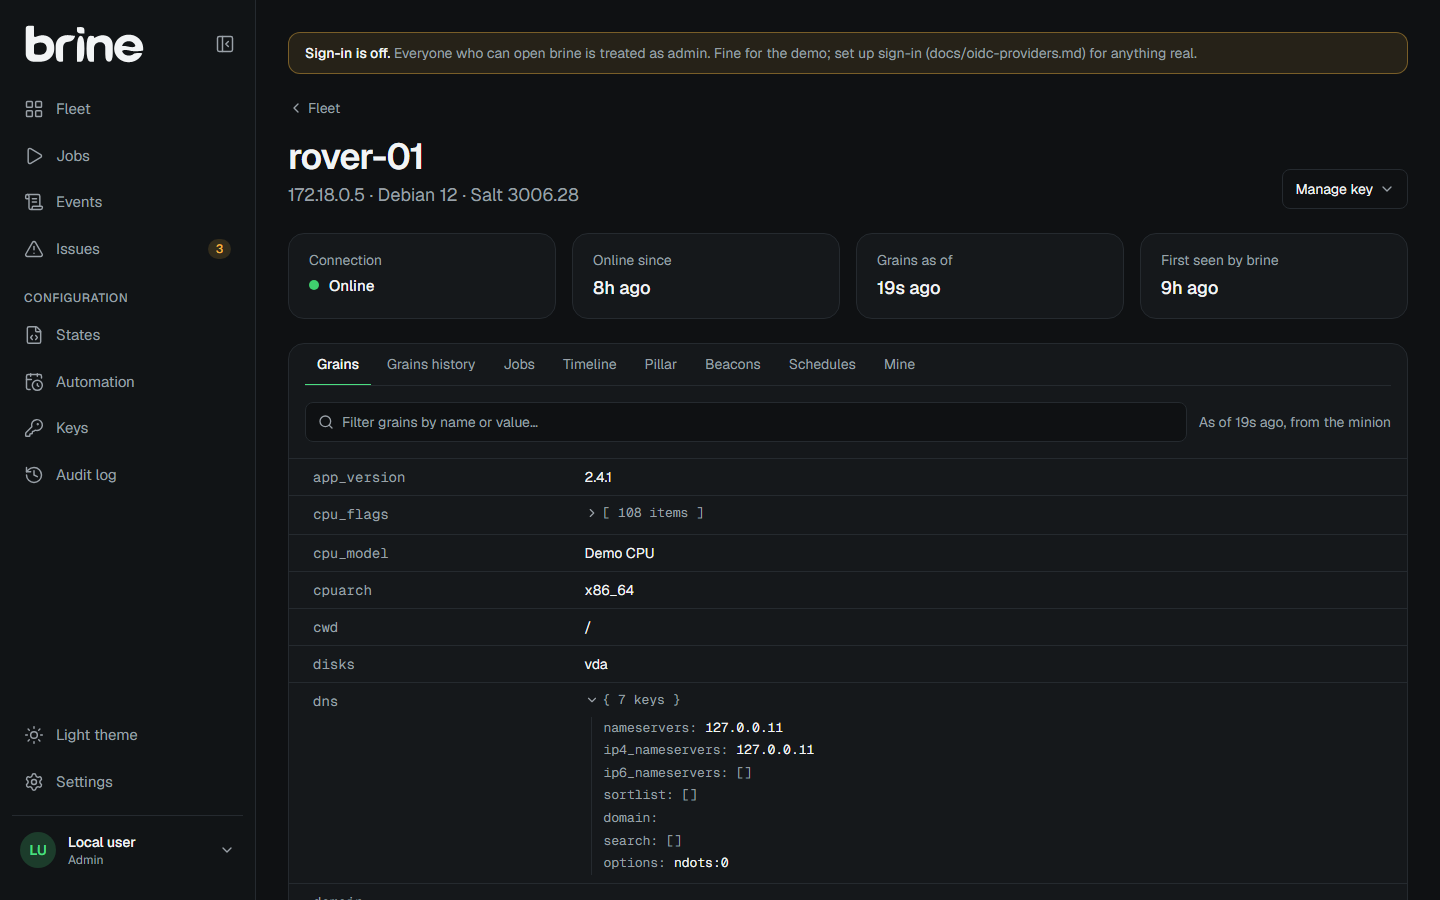
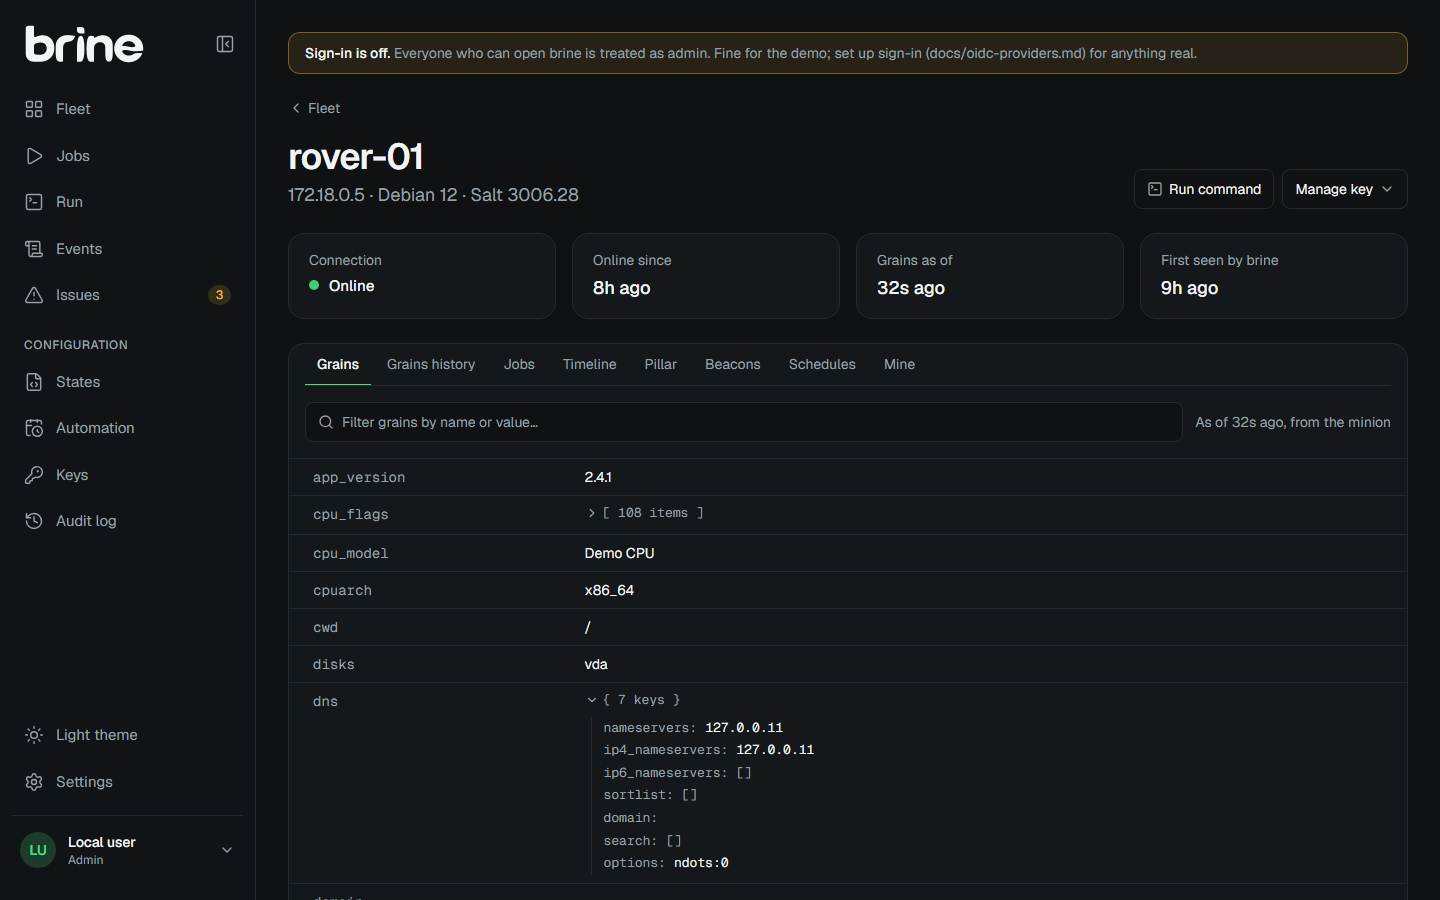
Docs: the Run page, commands ACL and allowlist; screenshots
- README: Run page section and screenshot (a shared link, previewed), feature list, status.
- permissions-and-salt-acl.md: granting functions for the Run page and the commands: allowlist.
- config.example.yaml: commands: per role. Decision 16 (preview first, allowlist per role,
  jobs belong to the person via Salt job metadata). Backlog and SaltGUI parity updated.
- Screenshots regenerated (the sidebar now has Run).

diff --git a/README.md b/README.md
@@ -9,7 +9,7 @@
 
 ---
 
-> **Status: early development.** Every read-only page works against the demo fleet, behind OIDC sign-in and roles, and admins can manage minion keys. Running commands comes next. Follow [docs/backlog.md](docs/backlog.md) for progress.
+> **Status: early development.** Every SaltGUI view has a brine page, and commands and key management work, all behind OIDC sign-in and roles. Still to come: SaltGUI's templates, orchestrations and job re-run/kill, and packaging (a Docker image and a quickstart). Follow [docs/backlog.md](docs/backlog.md) for progress.
 
 brine plugs into an existing **salt-master + salt-api** and gives your team a clean, fast view of the fleet:
 
@@ -17,13 +17,14 @@ brine plugs into an existing **salt-master + salt-api** and gives your team a cl
 - **Live vs. cached, clearly separated.** Online now, or last seen *X* ago, with grains marked "as of" when they were collected.
 - **Per-minion pages** with grains (current and history), recent jobs, and a presence timeline.
 - **Job history that outlives Salt's job cache.**
+- **Run commands safely.** See exactly which minions a command reaches before it runs; a per-role allowlist decides who may run what.
 - **An audit log** of who did what, on which minions, and when.
 - **Configurable columns.** Show any grain (`app_version`, `firmware_version`, ...) in the fleet table, no code changes.
 - **Parity with [SaltGUI](https://github.com/erwindon/SaltGUI)** as the baseline; see [docs/saltgui-parity.md](docs/saltgui-parity.md).
 - **Least privilege.** brine needs only a read-only Salt account (plus three functions if you want key management); the exact ACL is in [docs/permissions-and-salt-acl.md](docs/permissions-and-salt-acl.md).
 - **Every supported Salt release**, tested end to end in CI against a real master: [docs/salt-versions.md](docs/salt-versions.md).
 
-Running commands and applying states come next, behind roles, a targeting preview, and a confirmation step.
+Commands run from the Run page, behind roles, an exact target preview and a confirmation click.
 
 ## Pages
 
@@ -95,6 +96,20 @@ minion's result. State runs are broken down state by state; anything else is sho
 <picture>
   <source media="(prefers-color-scheme: dark)" srcset="docs/assets/screenshots/job-dark.png">
   <img alt="A state.apply job: dock-01's calibration state failed, the rovers succeeded" src="docs/assets/screenshots/job-light.png">
+</picture>
+
+### Run
+
+SaltGUI's command box, with a safety catch. Type a target and a command the way you would after
+`salt` on the master (`state.apply motd test=True`), or `runners.` / `wheel.` ones for the master
+itself. brine first shows exactly which minions it reaches, and which of those are offline;
+running is a separate click, and the results land on the job page as they arrive. Who may run
+what is a per-role allowlist in brine's config, every run is in the audit log, and links like
+`/run?target=rover-*&command=test.ping` open already previewed.
+
+<picture>
+  <source media="(prefers-color-scheme: dark)" srcset="docs/assets/screenshots/run-dark.png">
+  <img alt="The Run page: state.apply motd test=True previewed on rover-01, rover-02 and rover-03" src="docs/assets/screenshots/run-light.png">
 </picture>
 
 ### Keys

diff --git a/docs/backlog.md b/docs/backlog.md
@@ -45,7 +45,8 @@ Follow-ups found along the way:
 - [x] Fleet table (per the mockup): stat cards, status dot, last seen + cached/stale badges, OS/Salt, grain columns (show/hide), search, status tabs, site filter, sort, pagination; view state in the URL
 - [x] Fleet columns are customisable: add any grain the fleet reports (autocomplete), reorder, remove, reset; saved per browser; `fleet.columns` is the team default
 - [ ] Admins save a column layout as the team default from the UI (needs roles, Phase 2)
-- [ ] Fleet: "Run command" and row selection (with Phase 5)
+- [x] Fleet: "Run command" button
+- [ ] Fleet: row selection to run on the selected minions
 - [x] Collapsible sidebar (button or `[`), "b" mark when collapsed; Configuration group
 - [x] Fleet › Grains explorer (distribution of any grain, add as column) and Fleet › Nodegroups
 - [x] States page (top file per state, state files) and Automation page (schedules, beacons fleet-wide)
@@ -73,8 +74,11 @@ Follow-ups found along the way:
 ## Phase 5 — Commands (SaltGUI write parity)
 
 - [x] Key management: accept / reject / delete from the Keys page and minion pages; admin-only, fingerprint check to accept, typed name to delete or cut off an accepted minion, audited; exact-match `key.*_dict`; offered only when the Salt ACL allows (read at login); end-to-end test on the demo master
-- [ ] Run command box: local / async / runner / wheel, glob / list / compound / nodegroup targeting
-- [ ] Targeting preview (exact minion list) + confirmation step; operator role; every run audited
+- [x] Run page: minion functions (async, results on the job page) and `runners.` / `wheel.` on the master; glob, list, compound, grain, nodegroup and regex targets; recent commands (per browser); shareable links that open previewed
+- [x] Target preview (exact minion list, offline ones marked) before a separate Run click; the run is refused if the target matches other minions by then
+- [x] Who may run what: `commands:` allowlist per role (admins default to anything the Salt ACL allows; viewers never); every run audited; jobs recorded under the person via Salt job metadata (end-to-end test on the demo)
+- [ ] Function help in the command box (`sys.doc`) and autocomplete
+- [ ] Long runners (orchestrations) as async jobs with live progress (`runner_async`), instead of waiting on the request
 - [ ] Grains, beacons, schedules, mine actions; job re-run / terminate / kill
 - [ ] Templates, orchestrations
 

diff --git a/docs/saltgui-parity.md b/docs/saltgui-parity.md
@@ -38,7 +38,7 @@ actions (phase 5) and sign-in (phase 2) are next.
 | Beacons | Minion › Beacons + Automation › Beacons (fleet-wide) | 3 ✅ | |
 | Schedules | Minion › Schedules + Automation › Schedules (fleet-wide) | 3 ✅ | |
 | Nodegroups | Fleet › Nodegroups | 3 ✅ | Members from the master cache, so offline members count |
-| Keys | Keys page | 3 / 5 | View in 3; accept / reject / delete in 5 |
+| Keys | Keys page (+ minion page) | 3 / 5 ✅ | Accept / reject / delete: admins, fingerprint check, typed name, audited |
 | Jobs | Jobs page | 3 | From brine's own DB, so history outlives the master's job cache |
 | Job detail | Job page | 3 / 5 | Re-run / terminate / kill in 5 |
 | Highstate | Jobs › Highstate | 3 | Latest state run per minion, one dot per state |
@@ -46,7 +46,7 @@ actions (phase 5) and sign-in (phase 2) are next.
 | Reactors | Events › Reactors | 3 | Read-only |
 | Issues | Issues page | 3 | SaltGUI's detectors (below) plus stale / never-reported minions |
 | Options + `/stats` | Settings | 3 | Active config, presence method, salt-api health |
-| Command box | Run command | 5 | Adds targeting preview, confirmation, role check, audit |
+| Command box | Run (sidebar), Run command on Fleet and minion pages | 5 ✅ | Exact target preview, then a click to run; per-role allowlist; audited; results on the job page |
 | Grains / beacons / schedules / mine actions | Minion page actions | 5 | |
 | Templates (`saltgui_templates`) | Run command › Templates | 5 | |
 | Orchestrations | Run command › Orchestrations | 5 | |

diff --git a/docs/decisions.md b/docs/decisions.md
@@ -121,3 +121,22 @@ checked by the server as well as the UI.
 brine's roles decide which people may ask; Salt's ACL decides what brine's account may do at all.
 brine reads that ACL from the salt-api login and offers only what it allows, so a read-only
 install never shows buttons that would fail.
+
+## 16. Commands: preview first, allowlist per role, jobs belong to the person
+
+The Run page never runs anything on Enter: it previews the exact minions a target matches (from
+brine's key list for glob, list and regex targets; from the master's cache for grain, compound
+and nodegroup ones) and running is a separate click. If the target matches other minions by
+then, the run is refused and the preview shown again.
+
+Two layers decide what runs. Salt's external_auth limits brine's account; `commands:` in brine's
+config lists what each role may run (fnmatch, `runners.`/`wheel.` prefixes for master-side
+functions). Admins default to everything the ACL allows, operators to nothing, viewers never.
+
+Salt sees brine's service account as every job's user. brine tags the jobs it starts with
+`metadata: {"brine": {"actor": <email>}}`, which Salt copies into every return event and the job
+cache, so the jobs are recorded under the person even when a return arrives before brine has
+written the job down, or while brine was restarting.
+
+Words after the function are sent as typed, so Salt parses `key=value` and YAML values exactly as
+the salt CLI does, rather than brine guessing.

diff --git a/docs/permissions-and-salt-acl.md b/docs/permissions-and-salt-acl.md
@@ -110,8 +110,28 @@ says which functions are missing. With them, every change still needs:
 
 Each change is in the audit log with who, when, and the key's fingerprint.
 
-## 5. Later: commands
+## 5. Optional: the Run page (commands)
 
-Running commands and states (behind roles, a target preview, confirmation and the audit log)
-will need the specific execution functions you want operators to run. Grant those only when you
-turn the feature on.
+The Run page runs whatever functions brine's account is allowed, so list exactly the ones your
+team should be able to run through brine, for example:
+
+```yaml
+      - '*':
+        - test.*
+        - state.apply
+        - service.restart
+      - '@runner':
+        - manage.*
+```
+
+Then decide who in brine may run which of them, under `commands:` in brine's config:
+
+```yaml
+commands:
+  operator: ["test.*", "state.apply"]   # operators: only these
+  admin: ["*"]                          # admins: anything the ACL above allows (the default)
+```
+
+Viewers never run commands. Every run shows its exact target first, needs a click to confirm,
+and goes in the audit log; minion jobs are recorded under the person who ran them (brine tags
+each job with Salt job metadata). If Salt refuses a function, brine says which one to add.
